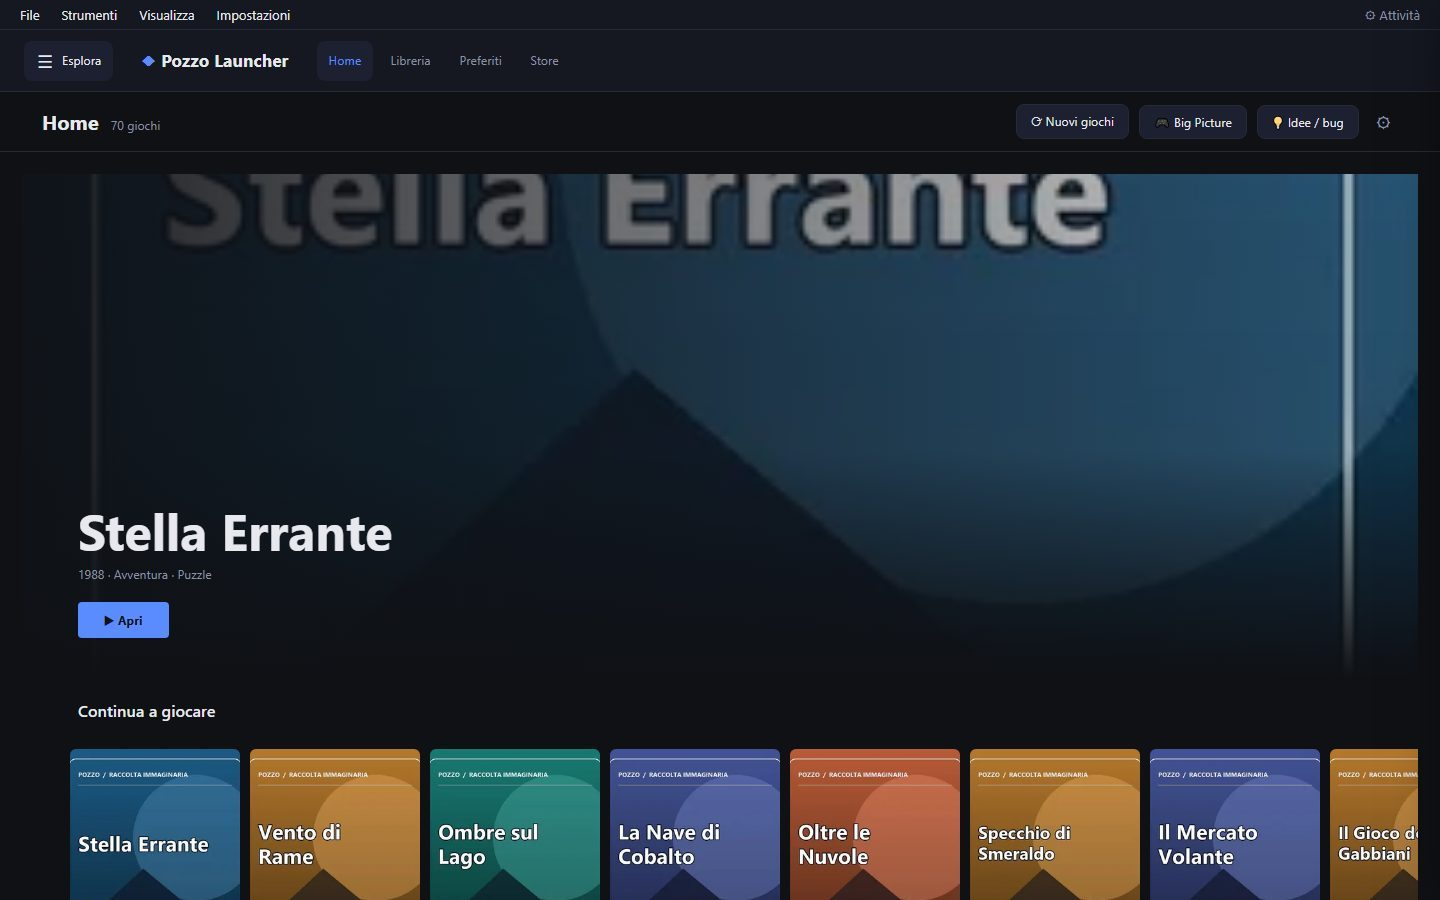
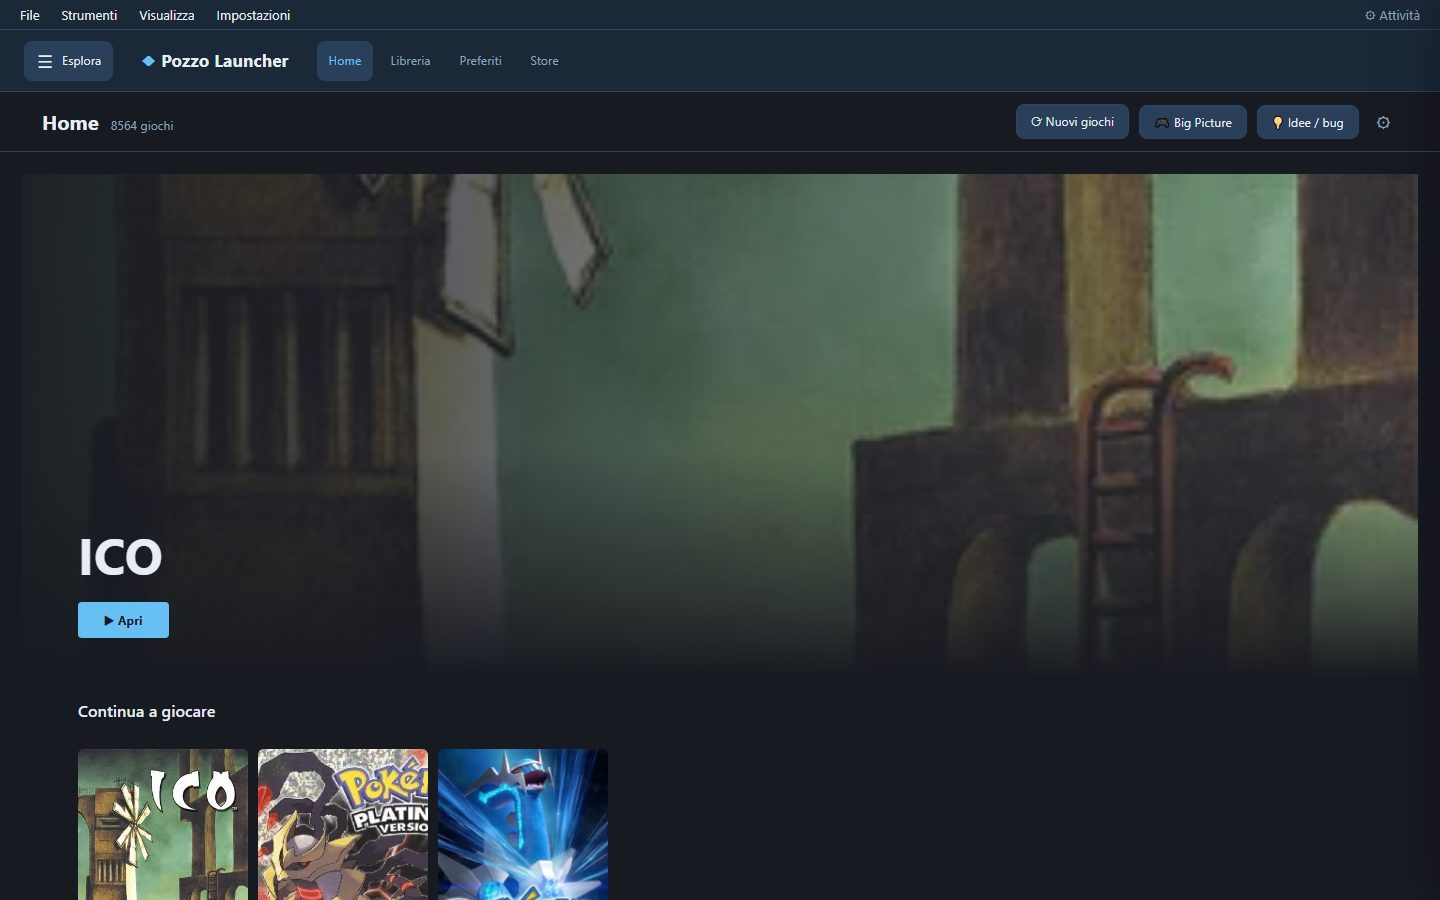
cleanup

diff --git a/tools/demo_screenshots.py b/tools/demo_screenshots.py
@@ -17,6 +17,7 @@ from PIL import Image, ImageDraw, ImageFont
 ROOT = Path(__file__).resolve().parents[1]
 sys.path.insert(0, str(ROOT))
 OUTPUT = ROOT / "docs" / "img"
+REAL = "--reale" in sys.argv  # usa la libreria vera dell'utente invece di quella demo
 PLATFORMS = ("gba", "snes", "psx", "nes", "megadrive")
 TITLES = [
     "Stella Errante", "Cavaliere di Cenere", "Giardino delle Lune", "Il Faro Sommerso", "Vento di Rame",
@@ -223,7 +224,14 @@ def main():
     problems = []
     with TemporaryDirectory(prefix=".demo-screenshots-", dir=ROOT) as temp:
         data_dir = Path(temp)
-        config_path, cache = make_demo_data(data_dir)
+        settings_backup = None
+        if REAL:
+            from pozzo import config as pconfig
+            config_path = pconfig._default_config_path()
+            settings_file = pconfig.settings_path(pconfig.load(None))
+            settings_backup = settings_file.read_bytes() if settings_file.exists() else None
+        else:
+            config_path, cache = make_demo_data(data_dir)
         port = available_port()
         base_url = f"http://127.0.0.1:{port}"
         log_path = data_dir / "server.log"
@@ -243,6 +251,7 @@ def main():
                 context = browser.new_context(viewport={"width": 1440, "height": 900}, device_scale_factor=1,
                                               locale="it-IT")
                 page = context.new_page()
+                page.add_init_script("document.addEventListener('DOMContentLoaded',()=>{const s=document.createElement('style');s.textContent='#update-pop{display:none!important}';document.head.append(s)})")
                 external = []
                 errors = []
                 bad_responses = []
@@ -260,14 +269,18 @@ def main():
                 page.evaluate("localStorage.clear(); sessionStorage.clear()")
                 page.reload(wait_until="domcontentloaded", timeout=30000)
                 page.locator("#main").wait_for(state="visible", timeout=20000)
-                page.wait_for_function("() => document.querySelectorAll('#grid-layer img').length > 0", timeout=25000)
+                try:
+                    page.wait_for_function("() => document.querySelectorAll('#grid-layer img').length > 0", timeout=25000)
+                except Exception:
+                    if not REAL:
+                        raise
                 if not page.request.get(base_url + "/api/setup").json().get("done"):
                     raise RuntimeError("La configurazione guidata è apparsa nonostante setup_done")
                 lib = page.request.get(base_url + "/api/library?part=owned").json()
-                if len(lib.get("games", {}).get("rows", [])) != len(TITLES):
+                if not REAL and len(lib.get("games", {}).get("rows", [])) != len(TITLES):
                     raise RuntimeError("La libreria demo non contiene i 70 giochi previsti")
                 cover_errors = []
-                for row in lib["games"]["rows"]:
+                for row in ([] if REAL else lib["games"]["rows"]):
                     gid = row[0]
                     for kind in ("cover", "hero"):
                         response = page.request.get(f"{base_url}/img/{gid}/{kind}")
@@ -358,6 +371,11 @@ def main():
                 except subprocess.TimeoutExpired:
                     server.kill()
                     server.wait(timeout=5)
+            if REAL:  # le chiamate API cambiano tema/grafica: ripristina le impostazioni dell'utente
+                if settings_backup is None:
+                    settings_file.unlink(missing_ok=True)
+                else:
+                    settings_file.write_bytes(settings_backup)
     print("Creati:")
     for path in created:
         print(f"  {path.relative_to(ROOT)} — {path.stat().st_size:,} byte")

diff --git a/pozzo/sources/screenscraper.py b/pozzo/sources/screenscraper.py
@@ -7,7 +7,7 @@ Differenze rispetto all'originale:
 - i media sono scaricati in parallelo (max `threads` connessioni) e SOLO quelli che
   mancano dopo le sorgenti precedenti
 - quota giornaliera monitorata: ci si ferma pulitamente prima di sforarla
-- credenziali sviluppatore proprie (config) invece di quelle offuscate di Skyscraper
+- credenziali sviluppatore proprie (config)
 """
 
 from __future__ import annotations
@@ -103,7 +103,7 @@ class ScreenScraper(Source):
         # 1 richiesta ogni 1,2 s per thread, come chiesto da ScreenScraper
         self.api_limiter = RateLimiter(threads / 1.2, threads)
         # di default i download dei media passano dallo STESSO limitatore delle API: mai piu'
-        # connessioni contemporanee dei thread concessi (come lo Skyscraper originale)
+        # connessioni contemporanee dei thread concessi
         if self.cfg.ss.get("media_parallel", False):
             self.media_limiter = RateLimiter(0, threads)
         else:

diff --git a/pozzo/scanner.py b/pozzo/scanner.py
@@ -1,7 +1,6 @@
 """Scansione cartelle ROM e calcolo hash.
 
-Ottimizzazioni rispetto a Skyscraper originale (che leggeva i file a blocchi da 1 KB,
-calcolando sempre MD5+SHA1+CRC in un solo thread per gioco):
+Ottimizzazioni:
 - le cartelle console sono cercate anche in profondita' (es. Myrient/No-Intro/<set>)
 - la scansione NON legge i file: l'hash si calcola solo dopo aver provato l'identificazione
   per nome esatto sui DAT No-Intro/Redump (vedi pipeline), quindi per collezioni gia'
@@ -288,7 +287,7 @@ def _m3u_refs(folder: Path) -> set[str]:
 
 def _ignored(d: Path) -> bool:
     return d.name.startswith(".") or d.name.lower() in SKIP_DIRS or \
-        (d / ".skyscraperignore").exists() or (d / ".gsignore").exists()
+        (d / ".gsignore").exists()
 
 
 def find_platform_dirs(cfg) -> list[tuple[P.Platform, Path]]:

diff --git a/pozzo/cache.py b/pozzo/cache.py
@@ -1,8 +1,6 @@
 """Cache delle risorse su SQLite (WAL).
 
-Sostituisce db.xml + quickid.xml di Skyscraper: quelli venivano tenuti interamente in RAM
-e riscritti solo a fine esecuzione (un crash = tutto perso). Qui ogni risultato viene
-salvato subito (commit a blocchi), quindi un'esecuzione interrotta riprende da dove era.
+Ogni risultato viene salvato subito (commit a blocchi), quindi un'esecuzione interrotta riprende da dove era.
 
 Tabelle:
   files      path -> hash calcolati (evita di ri-hashare file invariati)

diff --git a/pozzo/cli.py b/pozzo/cli.py
@@ -251,7 +251,7 @@ def cmd_bigpicture(args):
 
 
 def main(argv=None):
-    ap = argparse.ArgumentParser(prog="pozzo", description=f"PozzoLauncher {__version__} - erede veloce di Skyscraper")
+    ap = argparse.ArgumentParser(prog="pozzo", description=f"PozzoLauncher {__version__} - la tua libreria di giochi")
     ap.add_argument("-c", "--config", help="file config.toml (default: POZZO_CONFIG, poi la cartella dati dell'utente)")
     sub = ap.add_subparsers(dest="cmd")
 

diff --git a/pozzo/platforms.py b/pozzo/platforms.py
@@ -7,7 +7,6 @@ Ogni piattaforma ha:
 - nomi dei sistemi libretro (DAT No-Intro/Redump + thumbnails)
 - alias: nomi di cartella riconosciuti automaticamente durante la scansione
 
-Gli id ScreenScraper derivano dal codice originale di Skyscraper (screenscraper.cpp).
 Se per TheGamesDB l'id non e' noto, viene risolto a runtime per nome (/v1/Platforms).
 """
 

diff --git a/pozzo/net.py b/pozzo/net.py
@@ -14,7 +14,7 @@ from pathlib import Path
 
 import httpx
 
-UA = "PozzoLauncher/1.0 (+https://github.com/; based on Skyscraper by Lars Muldjord)"
+UA = "PozzoLauncher/1.0 (+https://github.com/)"
 
 
 class RateLimiter:

diff --git a/docs/sviluppo.md b/docs/sviluppo.md
@@ -1,6 +1,6 @@
 # Sviluppo e dettagli tecnici
 
-Per chi usa i sorgenti, vuole creare gli eseguibili o è curioso di come lavora Pozzo Launcher rispetto a [Skyscraper](https://github.com/Gemba/skyscraper).
+Per chi usa i sorgenti, vuole creare gli eseguibili o è curioso di come lavora Pozzo Launcher.
 
 ## Avvio rapido dai sorgenti (Windows)
 
@@ -54,19 +54,19 @@ covers/             le copertine (file locali)
 da un NAS, da un disco di rete o da un sito statico. La pagina funziona anche con migliaia di giochi (le schede si
 disegnano man mano che scorri).
 
-## Perché è molto più veloce di Skyscraper
+## Prestazioni
 
-| | Skyscraper 3.7.7 | Pozzo Launcher |
-|---|---|---|
-| Identificazione | Una chiamata API per gioco | **Offline**: CRC e nome confrontati con i DAT No-Intro/Redump di libretro |
-| Hash delle ROM | MD5, SHA1 e CRC a blocchi da 1 KB, per thread | **Prima si prova il nome esatto sui DAT**: se corrisponde, CRC/MD5/SHA1 arrivano dal DAT e il file non viene letto. Gli altri: CRC degli ZIP letto dall'indice, blocchi da 8 MB, strategia HDD/SSD, risultati in cache |
-| Rete | Sincrona, 1 richiesta alla volta per thread | Asincrona con HTTP/2, rate limit solo dove serve |
-| ScreenScraper | Attesa di 1,2 s anche prima di ogni immagine | Media scaricati in parallelo, e solo quelli mancanti |
-| IGDB | 2 richieste per gioco, 1 al secondo | **10 giochi per richiesta**, 4 richieste/s |
-| ArcadeDB | 1 gioco per richiesta | **25 giochi per richiesta** |
-| Cache | `db.xml` in RAM, scritto solo alla fine | SQLite con salvataggio continuo e ripresa automatica |
-| Console | Una per esecuzione (`-p`) | Tutte insieme |
-| Fonti | Una dopo l'altra | **A catena**: tutte lavorano contemporaneamente su giochi diversi |
+| | Pozzo Launcher |
+|---|---|
+| Identificazione | **Offline**: CRC e nome confrontati con i DAT No-Intro/Redump di libretro |
+| Hash delle ROM | **Prima si prova il nome esatto sui DAT**: se corrisponde, CRC/MD5/SHA1 arrivano dal DAT e il file non viene letto. Gli altri: CRC degli ZIP letto dall'indice, blocchi da 8 MB, strategia HDD/SSD, risultati in cache |
+| Rete | Asincrona con HTTP/2, rate limit solo dove serve |
+| ScreenScraper | Media scaricati in parallelo, e solo quelli mancanti |
+| IGDB | **10 giochi per richiesta**, 4 richieste/s |
+| ArcadeDB | **25 giochi per richiesta** |
+| Cache | SQLite con salvataggio continuo e ripresa automatica |
+| Console | Tutte insieme |
+| Fonti | **A catena**: tutte lavorano contemporaneamente su giochi diversi |
 
 Misurato su 10.000 ROM in 5 console, con cartelle annidate: 9.500 identificate per nome senza leggere i file; scansione, hash dei restanti 500, identificazione ed export in **meno di 10 secondi** (senza media). Sulla collezione reale di prova (14.782 giochi su HDD), gli NDS da leggere passano da 149 GB a 3,6 GB. Le immagini da libretro arrivano a circa 16 al secondo (misurate su 300 copertine SNES, l'84% trovate): circa 30 minuti per cover, screenshot e title di 10.000 giochi.
 
@@ -82,10 +82,9 @@ Ogni fonte è uno stadio con la propria coda. Un gioco passa alla fonte successi
 
 Ogni sorgente riceve **solo** i giochi a cui manca qualcosa che lei sa fornire. Per sfruttare al massimo la velocità, chiedi i media `wheel`/`marquee`/`video` solo se ti servono: esistono quasi solo su ScreenScraper, e quindi la quota giornaliera del tuo account (es. 20.000 richieste) diventa il limite. Per 10.000 giochi, con quei media, servono circa 10-12.000 richieste ScreenScraper, cioè 1 giorno con un account base. Se la quota finisce, l'esecuzione si ferma pulita e riprende il giorno dopo.
 
-## Cosa non è stato portato da Skyscraper
+## Cosa non c'è
 
-- La generazione di gamelist per EmulationStation, AttractMode e Pegasus: l'output è JSON/CSV neutro.
-- Il compositing delle immagini (`artwork.xml`, effetti `fx*`): vengono salvate le immagini originali.
-- I moduli MobyGames (API ora a pagamento), OpenRetro, WorldOfSpectrum, import ed esgamelist.
+- Il compositing delle immagini: vengono salvate le immagini originali.
+- I moduli MobyGames (API ora a pagamento), OpenRetro e WorldOfSpectrum.
 
 Se servono, si possono aggiungere come nuovi moduli in `pozzo/sources/` o in `export.py`.

diff --git a/README.md b/README.md
@@ -4,7 +4,7 @@
 [![Release](https://img.shields.io/github/v/release/erpaffo/Pozzo-Launcher)](https://github.com/erpaffo/Pozzo-Launcher/releases/latest)
 [![Manuale](https://img.shields.io/badge/manuale-online-blue)](https://erpaffo.github.io/Pozzo-Launcher/)
 
-La tua libreria di giochi in un posto solo: ROM di ogni console e giochi PC dagli store, con copertine, descrizioni, valutazioni e durate recuperate in automatico. Si gioca dal desktop, da Big Picture con il controller, dal telefono o in streaming. È il successore moderno e molto più veloce di [Skyscraper](https://github.com/Gemba/skyscraper).
+La tua libreria di giochi in un posto solo: ROM di ogni console e giochi PC dagli store, con copertine, descrizioni, valutazioni e durate recuperate in automatico. Si gioca dal desktop, da Big Picture con il controller, dal telefono o in streaming.
 
 📖 **[Manuale completo](https://erpaffo.github.io/Pozzo-Launcher/)** · ⬇ **[Download](https://github.com/erpaffo/Pozzo-Launcher/releases)** · 📝 **[Changelog](changelog.md)**
 
@@ -94,7 +94,7 @@ python -m pozzo app          # apre l'app
 python -m pozzo run          # solo scansione e scraping, da terminale
 ```
 
-Struttura del codice, come creare gli eseguibili e confronto con Skyscraper: [Sviluppo](docs/sviluppo.md). Per contribuire: [CONTRIBUTING.md](CONTRIBUTING.md).
+Struttura del codice, come creare gli eseguibili e prestazioni: [Sviluppo](docs/sviluppo.md). Per contribuire: [CONTRIBUTING.md](CONTRIBUTING.md).
 
 ## Avvertenze
 

diff --git a/changelog.md b/changelog.md
@@ -654,7 +654,7 @@
 
 ## 0.1.1 e precedenti
 
-- 0.1.0 – 0.1.1: prima versione della riscrittura in Python di Skyscraper con interfaccia in stile Playnite
+- 0.1.0 – 0.1.1: prima versione in Python con interfaccia in stile Playnite
   (FastAPI + pywebview): scansione ROM, cascata di fonti (ScreenScraper, IGDB, RAWG, TheGamesDB, Libretro,
   LaunchBox, Wikipedia…), cache, libreria, collezioni, avvio con emulatori, store, Big Picture, versione per telefono.
   Il dettaglio è nello storico git (`git log`).
